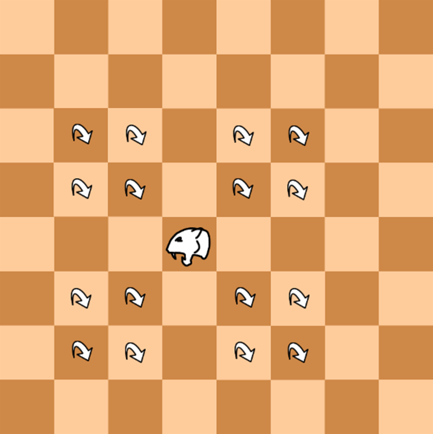
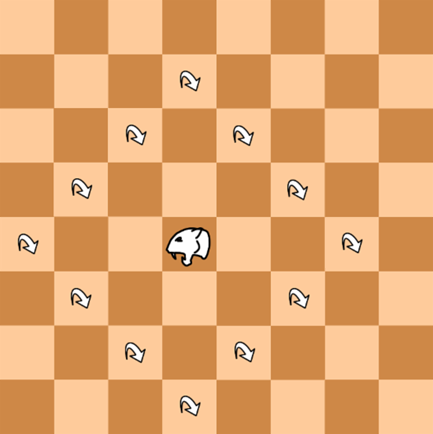
Update and clarify many rules

diff --git a/chaos.go b/chaos.go
@@ -19,49 +19,50 @@ func NewRngStuff() RngStuff {
 	var res = RngStuff{
 		chaosShown: [3]string{"", "", ""},
 	}
-	res.AddChaosOption("Shuffle the shop ordering and which options are unlocked and then gain 6 coins.")
+	res.AddChaosOption("Buy the top-most locked shop option for free. Then shuffle the shop ordering including which options are unlocked.")
 	res.AddChaosOption("Give both players 30 coins at the start of your next round.")
-	res.AddChaosOption("Freeze all tiles with Pawns on them.")
-	res.AddChaosOption("Summon two Imps on Earth on random empty tiles.")
-	res.AddChaosOption("Pick a file in a plane. Curse all non-royal pieces in the chosen file.")
-	res.AddChaosOption("Replace all Bishops with Rooks and vice versa.")
+	res.AddChaosOption("Freeze all squares with Pawns on them.")
+	res.AddChaosOption("Summon two Imps on Earth on random empty squares.")
+	res.AddChaosOption("Pick a file in any plane. Curse all pieces in the chosen file.")
+	res.AddChaosOption("Turn all Bishops into Rooks and all Rooks into Bishops.")
 	res.AddChaosOption("Reset both players' coin count to 0.")
-	res.AddChaosOption("Spread all ice to adjacent tiles.")
+	res.AddChaosOption("Spread all ice to adjacent squares.")
 	res.AddChaosOption("Summon the Devil (Giant Imp with double move) in the middle of Hell.")
-	res.AddChaosOption("Summon an Angel on an empty tile in Heaven.")
-	res.AddChaosOption("Destroy the outermost ranks OR files of Heaven.")
-	res.AddChaosOption("Move each Pawn a step backwards, if the destination tile is unoccupied.")
+	res.AddChaosOption("Summon an Angel on an empty square in Heaven.")
+	res.AddChaosOption("Destroy the squares of the outermost ranks OR files of Heaven.")
+	res.AddChaosOption("Destroy the squares of the outermost ranks OR files of Hell.")
+	res.AddChaosOption("Move each Pawn a step backwards, if the destination square is unoccupied.")
 	res.AddChaosOption("Stun 4 random pieces for 3 rounds.")
-	res.AddChaosOption("Destroy the outermost ranks OR files of Hell.")
-	res.AddChaosOption("Duplicate a non-King piece to an adjacent empty tile. Then Curse both.")
-	res.AddChaosOption("Summon a Rook on a back rank for each player. Owner chooses where. Opponent starts.")
-	res.AddChaosOption("Spawn a Chaos Orb in each plane on a random empty tile.")
+	res.AddChaosOption("Duplicate a non-King piece to an adjacent empty square. Then Curse both.")
+	res.AddChaosOption("Let each player spawn a Rook on their back rank in any plane. Owner chooses where. Opponent starts.")
+	res.AddChaosOption("Spawn a Chaos Orb in each plane on a random empty square.")
 	res.AddChaosOption("Make a piece giant.")
 	res.AddChaosOption("Swap a piece in Hell with one in Heaven.")
-	res.AddChaosOption("Curse a random piece of each player.")
+	res.AddChaosOption("Curse two random pieces of each player.")
 	res.AddChaosOption("Upgrade all Knights.")
 	res.AddChaosOption("Replace all ice with fire OR all fire with ice.")
-	res.AddChaosOption("Spread all fire to adjacent tiles.")
-	res.AddChaosOption("Pick two Pawns. They move forward at the end of their owner's turn if the tile is unoccupied.")
-	res.AddChaosOption("Fill empty tiles on Earth with coins.")
-	res.AddChaosOption("Start 3 fires on random empty tiles in a plane of your choosing.")
-	res.AddChaosOption("Freeze one unoccupied tile and start a fire on a different unoccupied tile.")
-	res.AddChaosOption("Downgrade an upgraded piece of your choosing. Give experience to every piece around it.")
+	res.AddChaosOption("Spread all fire to adjacent squares.")
+	res.AddChaosOption("Pick any two Pawns. They move forward at the end of their owner's turn if the destination square is unoccupied.")
+	res.AddChaosOption("Fill empty squares on Earth with coins.")
+	res.AddChaosOption("Start 3 fires on random empty squares in a plane of your choosing.")
+	res.AddChaosOption("Freeze one unoccupied square and start a fire on a different unoccupied square.")
+	res.AddChaosOption("Downgrade an upgraded piece of your choosing. Give experience to every piece adjacent to it.")
 	res.AddChaosOption("You have two actions on your next turn.")
 	res.AddChaosOption("Remove four options from the shop. Reduce the price of remaining options by 1.")
-	res.AddChaosOption("Destroy all traps. You may plant a trap for each destroyed.")
+	res.AddChaosOption("Destroy all traps. You may then plant up to 5 secret traps on unoccupied squares.")
 	res.AddChaosOption("Move all Bishops to their starting position on Earth. Then give them experience.")
 	res.AddChaosOption("Upgrade all Kings.")
-	res.AddChaosOption("Swap your King and a Pawn on the same plane.")
+	res.AddChaosOption("Swap your King with an allied Pawn on the same plane.")
 	res.AddChaosOption("Pick a plane. Downgrade all pieces on that plane.")
 	res.AddChaosOption("Replace all Pawns with Suicide Bombers.")
 	res.AddChaosOption("Pick a Pawn of yours. While it is a Pawn make as many moves and captures with it as you desire/can.")
-	res.AddChaosOption("Pick a plane. Spawn white Pawns on empty rank 2 tiles and black Pawns on empty rank 7 tiles.")
+	res.AddChaosOption("Pick a plane. Spawn white Pawns on empty rank 2 squares and black Pawns on empty rank 7 squares.")
 	res.AddChaosOption("Gain 8 coins. Then buy something from the shop. Then remove that option from the shop.")
 	res.AddChaosOption("Pick a non-royal piece. Move it to a random position on a random plane.")
 	res.AddChaosOption("From now on, piece only need 1 experience to be upgraded.")
-	res.AddChaosOption("Gain an infinite number of coins, but you can only buy odd-cost options from the shop.")
+	res.AddChaosOption("Gain an infinite number of coins, but from now you can only buy odd-cost options from the shop.")
 	res.AddChaosOption("Something random. Reroll the Chaos options and pick the top one.")
+	res.AddChaosOption("Destroy an unoccupied square in each plane.")
 	return res
 }
 

diff --git a/docs/RULES.md b/docs/RULES.md
@@ -13,7 +13,7 @@ Some final terminology:
 - an "empty" square has no piece nor item on it,
 - an "unoccupied" square has no piece on it but may have an item,
 - when a piece is captured, it "dies",
-- "adjacent" refers to the 4 touching squares,
+- "adjacent" refers to the 4 touching squares (potentially more for pieces of increased size),
 - Kings and Queens are "royal" pieces,
 - Pawns, Knights, Bishops, Rooks, Kings, and Queens are "standard" pieces,
 
@@ -41,44 +41,51 @@ Some final terminology:
 - 3.1 If a piece is moved onto an enemy piece, the enemy piece is captured.
   - 3.1a If a piece is moved onto an enemy piece which cannot be captured due to some other effect, the moving piece dies.
 - 3.2 If a piece is moved onto an allied piece, the moving piece dies.
-- 3.3 If a piece is moved off the board, even partially, it is dies.
+- 3.3 If a piece is moved off the board, it is dies.
 
 ### 4 Items
 
-- 4.1 Coin: When a piece is moved onto a Coin the owner gets one coin.
+- 4.1 Coin: When a piece is moved onto a Coin the owner gets one coin. Coins can stack.
 - 4.2 Fire: When a piece is moved onto or through Fire, it dies (on the fire's square).
-- 4.3 Ice: When a piece is moved onto Ice, they must move an additional step in the same direction, even if that moves it off the board or onto an allied piece.
+- 4.3 Ice: When a piece is moved onto Ice, they must move an additional step in the same direction, even if that moves it off the board or onto an allied piece. This extra movement happens after resolving captures and potential upgrades, but end-of-move effects like Traps and Curses are only triggered once.
+  - 4.3b If the move is a jump like a Knight's, then the additional step is a additional jump of the same shape. 
 - 4.4 Ice and Fire: If Ice and Fire ever appear on the same square, they are both removed.
 - 4.5 Chaos Orb: When a piece is moved onto a Chaos Orb, the owner must pick one of three Chaos Effects to happen.
-- 4.6 Secret Trap: When a piece ends a move on a Secret Trap it dies and the trap disappears. A Secret Trap has no visual indication (write your traps down somewhere else).  
+- 4.6 Secret Trap: When a piece ends a move on a Secret Trap it dies and the trap disappears. A Secret Trap has no visual indication (write your traps down somewhere else).
 
 ### 5 Status Effects
 
 - 5.1 Murderer: The piece is moved to Hell instead of Heaven when it dies on Earth. See rule 2.2.
-- 5.2 Experienced: The piece will be upgraded the next time it captures a piece. See section TBD.
+- 5.2 Experienced: The piece will be upgraded the next time it captures a piece. See section 6.
 - 5.3 Cursed: After you move this piece, it has 25% of dying.
-- 5.4 Stunned: You cannot move this piece as an action. This status effect stacks and one is removed at the end of your turn.
+- 5.4 Stunned: You cannot take actions with this piece (e.g. move it or activate special abilities). This status effect stacks and one is removed at the end of your turn.
 - 5.5 Wizard hat: The piece is not affected by Fire and Ice.
 - 5.6 Double Move: After you move this piece, you may pay one coin to move it a second time.
 - 5.7 Investor: At the end of white's turn, you get an additional coin. This status effect stacks.
 - 5.8 Portal Gun: As an action you can move this piece to the same square on a different plane. This status effect is removed when you do so.
 - 5.9 Increased size: This piece takes up more space. This status effect stacks.
-  - 5.9a When a piece gets this status effect, it must expand into unoccupied squares if possible. Otherwise, it must expand into squares with enemy pieces, capturing them. If that is also not possible, it dies.
-  - 5.9b When a piece with this status effect is captured, it does not die. Instead, it shrinks until it no longer overlaps with the capturing piece. The owner decides whereto. 
+  - 5.9a When a piece gets this status effect, it must expand into unoccupied squares, owner choose how. If this is not possible, nothing happens instead. 
+  - 5.9b When a piece with this status effect dies, it instead shrinks, and it must shrink until it no longer overlaps any danger, e.g. fire or a capturing piece. The owner decides how it shrinks.
+  - 5.9c When a piece with this status effect is moved onto multiple pieces/items, all pieces are captured. If one or more of those are allied pieces or dangers like fire, it must shrink as per rule 5.9b.
 - 5.10 Forced movement: The piece must move according to the effect that applied the status effect.
 
 ### 6 Experience and Upgrades
 
 - 6.1 When a piece captures another piece it gains the Experienced status effect if it does not have it already.
 - 6.2 When a piece with the Experienced status effect captures another piece, it loses the status effect and is upgraded.
-- 6.3 When a piece is upgraded it either changes type or gains a status, but the available upgrades depend on its type. The owner of the piece decides which upgrade is applied. Consult the following list for possible upgrades to each piece:
+- 6.3 When a piece is upgraded it either changes type or gains a status effect. The available upgrades depend on its type. The owner of the piece decides which upgrade is applied. Consult the following list for possible upgrades to each piece:
   - Pawn: Knight, Suicide Bomber, Increases Size status effect
   - Knight: Leopard, Checker Knight, Mounted Archer
   - Bishop: Wizard, King, Archbishop
   - Rook: Fortress, Scout, Warlock
   - Angel: *Cannot be upgraded*
   - Imp: *Cannot be upgraded*
-  - The rest: Wizard Hat status effect, Investor status effect, Increased Size status effect, Portal Gun status effect (not available for Kings), Double Move status effect (only available for Kings)
+  - The rest: Pick from
+    - Wizard Hat status effect
+    - Investor status effect
+    - Increased Size status effect
+    - Portal Gun status effect (not available for Kings)
+    - Double Move status effect (only available for Kings)
 
 ### 7 Non-standard Pieces
 
@@ -87,17 +94,17 @@ Some final terminology:
   - Jump: The piece can move directly to this square (like a Knight jump). ![Directional move](images/movement_icon_jump.png)
   - Shoot: The piece can capture an enemy piece on this square without moving. ![Directional move](images/movement_icon_shoot.png)
 - 7.2 The non-standard pieces have the following movement patterns and abilities:
-  - Suicide Bomber: Moves like a pawn. Creates Fire where it dies.
+  - Suicide Bomber: Moves like a pawn. Creates Fire where it dies. The Suicide bomber dies when reaching the opponent's back rank.
   - Leopard: Moves like indicated in the picture below.
     - ![Leopard movement](images/leopard_movement.png)
   - Checker Knight: Moves like a King, but can also jump over an adjacent piece, if the other side is unoccupied. If the Checker Knight jumps over a piece, it may do a second such jump. If the Checker Knight jumps over an enemy piece, the enemy piece is captured.
   - Mounted Archer: Moves like indicated in the picture below.
     - ![Mounted archer movement](images/mounted_archer_movement.png)
-  - Wizard: Moves like a Bishop and is not affected by Fire and Ice. As an action, the Wizard can create Fire or Ice on all adjacent unoccupied squares.
+  - Wizard: Moves like a Bishop and is not affected by Fire and Ice. After you move the Wizard, may spawn Ice or Fire on an unoccupied square adjacent to it.
   - Archbishop: Moves like a Bishop. Always goes to Heaven when it dies. Allied Pawns in the same rank and file as the Archbishop cannot be captured.
-  - Fortress: Moves like indicated in the picture below. An allied King cannot be captured while adjacent to a Fortress.
+  - Fortress: Moves like indicated in the picture below. An allied King cannot be captured while adjacent to the Fortress.
     - ![Fortress movement](images/fortress_movement.png)
   - Scout: In addition to moving like a Rook, the Scout can jump to any corner square of the plane. The Scout is not affected by Secret Traps.
-  - Warlock: Moves like a Rook. As an action, the Warlock can move a piece from Hell to the same square on Earth and give it the Cursed status effect. The Warlock always goes to Hell when it dies.
-  - Imp: A neutral piece owned by both players. Moves like a Pawn. Both players can take actions with the Imp, but a player is not allowed to immediately undo a move by the other player (unless there are side effects). The Imp is not affected by Fire.
+  - Warlock: Moves like a Rook. As an action, if the Warlock is on Earth or in Hell, the Warlock can move a piece from Hell to the same square on Earth and give it the Cursed status effect. The Warlock always goes to Hell when it dies.
+  - Imp: A neutral piece owned by both players. Moves like a King. Both players can take actions with the Imp, but a player is not allowed to immediately undo a move by the other player. The Imp is not affected by Fire.
   - Angel: A neutral piece owned by both players. Moves like a Queen. You can only take actions with the Angel if you have the most coins. The Angel is not affected by Ice.
